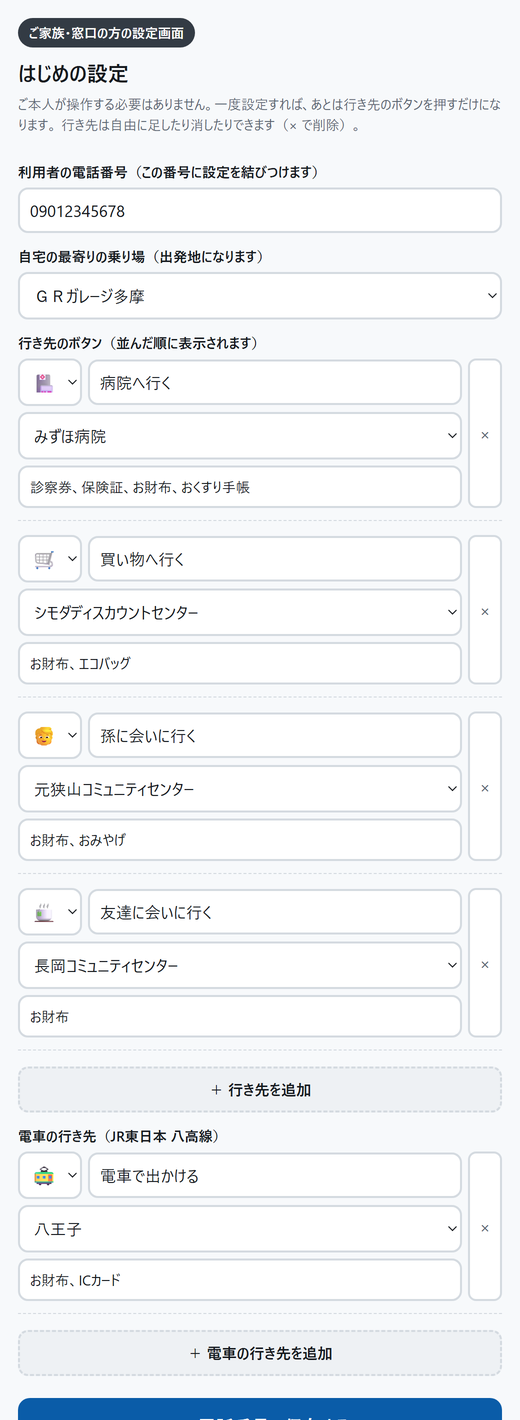
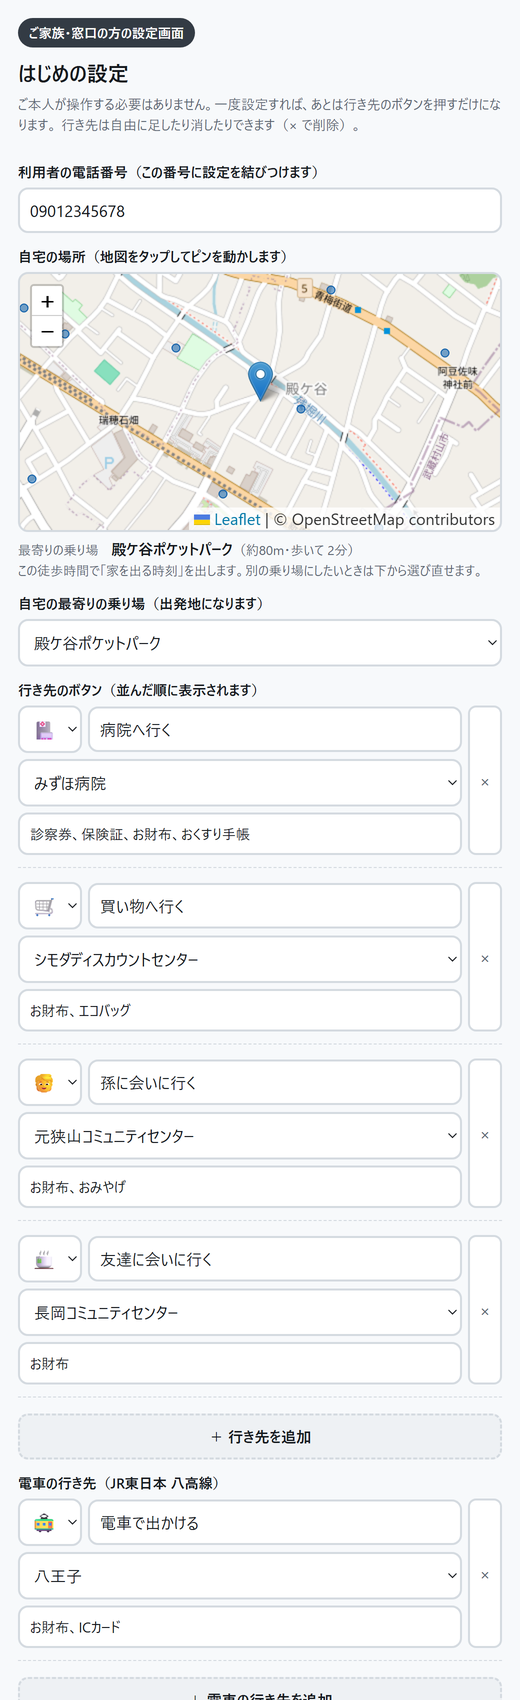
更新

diff --git a/index.html b/index.html
@@ -4,6 +4,8 @@
 <meta charset="utf-8">
 <meta name="viewport" content="width=device-width, initial-scale=1">
 <title>いつもの外出 — デマンド交通よやく</title>
+<link rel="stylesheet" href="https://unpkg.com/leaflet@1.9.4/dist/leaflet.css">
+<script src="https://unpkg.com/leaflet@1.9.4/dist/leaflet.js"></script>
 <script src="feed-data.js?v=4ceff3d9"></script>
 <style>
   :root{
@@ -166,6 +168,10 @@
   .msg{margin-top:14px;padding:12px 14px;border-radius:10px;font-size:17px;font-weight:700;
     background:#fdeaea;color:#6b1414;border:2px solid #d9a5a5}
   .msg.ok{background:#e7f4ec;color:#14532d;border-color:#8fc3a5}
+  #home-map{height:260px;border:2px solid var(--line);border-radius:10px;overflow:hidden}
+  .maphint{font-size:13px;color:var(--muted);margin-top:6px;line-height:1.5}
+  .maphint b{color:var(--ink);font-size:15px}
+  .leaflet-container{font:inherit}
   .setup input[type=tel],.setup input[type=text]{width:100%;padding:10px;font-size:16px;
     font-family:inherit;border:2px solid var(--line);border-radius:10px;background:#fff;color:var(--ink)}
   /* 行き先は自由に足し引きできる。事業者や家庭ごとに要るものは違う。 */
@@ -212,6 +218,24 @@
   .demo .btns button{flex:1 1 auto;padding:9px 12px;font-size:13px;font-family:inherit;cursor:pointer;
     background:#eef1f4;border:1px solid var(--line);border-radius:8px;color:var(--ink)}
   @media(max-width:900px){.phone{flex:1 1 100%}}
+  /* 実機の幅では「友達に会いに行く」が折り返していた。文字は大きいままで収める。 */
+  @media(max-width:430px){
+    .page{padding:12px 10px 40px}
+    .screen{padding:14px}
+    .bigbtn{font-size:25px;padding:16px 15px;gap:12px;margin-bottom:10px}
+    .bigbtn .ico{font-size:32px}
+    .bigbtn .dest{font-size:15px;margin-top:2px}
+    .status .big{font-size:22px}
+    .status .sub{font-size:16px}
+    .qdest{font-size:31px}
+    .journey .t{font-size:21px}
+    .journey .place b{font-size:21px}
+    .journey .leg{font-size:16px}
+    .count .n{font-size:64px}
+    .count .leave{font-size:21px}
+    .ride .dest{font-size:33px}
+    .items label{font-size:21px}
+  }
 </style>
 </head>
 <body>
@@ -246,6 +270,9 @@
           行き先は自由に足したり消したりできます（× で削除）。</p>
         <label for="in-setup-phone">利用者の電話番号（この番号に設定を結びつけます）</label>
         <input type="tel" id="in-setup-phone" inputmode="numeric" placeholder="09012345678">
+        <label>自宅の場所（地図をタップしてピンを動かします）</label>
+        <div id="home-map"></div>
+        <div class="maphint" id="home-map-hint">地図を読み込んでいます…</div>
         <label for="in-home">自宅の最寄りの乗り場（出発地になります）</label>
         <select id="in-home"></select>
         <label>行き先のボタン（並んだ順に表示されます）</label>
@@ -520,7 +547,7 @@
     if (!w) { return { ok: false, why: "closed" }; }
     var pickup = Math.max(minsOf(n) + RULE.priorNoticeMin, w.start);
     if (pickup > w.end) { return { ok: false, why: "late", window: w }; }
-    return { ok: true, window: w, pickup: pickup, leave: pickup - WALK_MIN };
+    return { ok: true, window: w, pickup: pickup, leave: pickup - homeWalkMin() };
   }
   function rideMinutes(from, to) {
     var km = distanceM(from.lat, from.lon, to) / 1000 * DETOUR;
@@ -729,7 +756,7 @@
       var target = best.dep - PLATFORM_MARGIN_MIN - walk - access.ride - BOARD_GRACE_MIN;
       var pickup = Math.max(p.pickup, target);
       access.pickup = pickup;
-      access.leave = pickup - WALK_MIN;
+      access.leave = pickup - homeWalkMin();
       access.arrive = pickup + BOARD_GRACE_MIN + access.ride;
     }
 
@@ -847,6 +874,10 @@
   function railJourney(r) {
     var rows = [];
     if (r.access.mode === "demand") {
+      if (cfg && cfg.home && r.access.pickup - r.access.leave > 0) {
+        rows.push({ t: r.access.leave, place: "自宅", note: "家を出る" });
+        rows.push({ leg: "🚶 歩いて " + (r.access.pickup - r.access.leave) + "分" });
+      }
       rows.push({ t: r.access.pickup, place: r.from.name, note: "お迎え" });
       rows.push({ leg: "🚐 デマンド交通で " + (r.access.arrive - r.access.pickup)
         + "分　🚶 歩いて " + r.walk + "分" });
@@ -889,12 +920,22 @@
     return rows;
   }
 
+  // 自宅を登録していれば、家を出るところから見せる。
+  // 徒歩時間が人によって違うので、ここを省くと時刻の根拠が見えない。
+  function homeLeg(t) {
+    if (!cfg || !cfg.home || t.dir !== "go") { return []; }
+    var walk = t.pickup - t.leave;
+    if (walk <= 0) { return []; }
+    return [{ t: t.leave, place: "自宅", note: "家を出る" },
+            { leg: "🚶 歩いて " + walk + "分" }];
+  }
+
   function demandJourney(t) {
-    return [
+    return homeLeg(t).concat([
       { t: t.pickup, place: t.origin.name, note: "お迎え" },
       { leg: "🚐 デマンド交通で " + (t.arrive - t.pickup) + "分" },
       { t: t.arrive, place: t.dest.name, note: "到着", end: true }
-    ];
+    ]);
   }
 
   // ── 設定（初回登録）─────────────────────────────────
@@ -933,8 +974,12 @@
   }
   // デモの初期状態。実運用なら空から家族が作る。
   function defaultConfig() {
+    // デモの自宅は、乗り場から 200m ほど離れた地点に置く。
+    // 乗り場と同じ座標にすると徒歩時間が出ず、この設定の意味が見えないため。
+    var base = stopById(stopIdByName("ＧＲガレージ多摩")) || F.stops[0];
     return {
       phone: DEMO_PHONE,
+      home: { lat: +(base.lat + 0.0016).toFixed(6), lon: +(base.lon + 0.0008).toFixed(6) },
       homeStopId: stopIdByName("ＧＲガレージ多摩") || F.stops[0].id,
       places: DEFAULT_PLACES.map(function (d) {
         return { icon: d.icon, label: d.label, items: d.items,
@@ -1506,6 +1551,77 @@
     return out;
   }
 
+  // ── 自宅の位置 ──────────────────────────────────────
+  // 「家を出る時刻」は乗り場までの徒歩時間で決まる。全員一律5分では実態に合わないので、
+  // 自宅の座標を登録して実距離から出す。地図が使えないときは既定値に戻すだけ。
+  var homeMap = null, homeMarker = null;
+
+  function homeWalkMin() {
+    if (!cfg || !cfg.home) { return WALK_MIN; }
+    var st = stopById(cfg.homeStopId);
+    if (!st) { return WALK_MIN; }
+    return Math.max(2, Math.ceil(distanceM(cfg.home.lat, cfg.home.lon, st) / WALK_M_PER_MIN));
+  }
+
+  function stopsCenter() {
+    var la = 0, lo = 0;
+    F.stops.forEach(function (st) { la += st.lat; lo += st.lon; });
+    return { lat: la / F.stops.length, lon: lo / F.stops.length };
+  }
+
+  // ピンを動かすたびに、最寄りの乗り場と徒歩時間を出し直す
+  function updateHomeHint(lat, lon) {
+    var nr = nearestStop(lat, lon);
+    var hint = $("home-map-hint");
+    if (!nr) { hint.textContent = "近くに乗り場が見つかりません。"; return; }
+    var walk = Math.max(2, Math.ceil(nr.dist / WALK_M_PER_MIN));
+    $("in-home").value = nr.stop.id;
+    hint.innerHTML = "最寄りの乗り場　<b>" + nr.stop.name + "</b>"
+      + "（" + fmtDist(nr.dist) + "・歩いて " + walk + "分）<br>"
+      + "この徒歩時間で「家を出る時刻」を出します。別の乗り場にしたいときは下から選び直せます。";
+  }
+
+  function initHomeMap(fromCfg) {
+    var hint = $("home-map-hint");
+    if (typeof L === "undefined") {
+      $("home-map").hidden = true;
+      hint.textContent = "地図を読み込めませんでした。下の一覧から乗り場を選んでください。";
+      return;
+    }
+    var start = (fromCfg && fromCfg.home)
+      || (fromCfg && stopById(fromCfg.homeStopId))
+      || stopsCenter();
+    if (!homeMap) {
+      homeMap = L.map("home-map", { attributionControl: true })
+        .setView([start.lat, start.lon], 16);
+      L.tileLayer("https://tile.openstreetmap.org/{z}/{x}/{y}.png", {
+        maxZoom: 19,
+        attribution: "&copy; OpenStreetMap contributors"
+      }).addTo(homeMap);
+      // 乗り場も薄く置く。どこに乗り場があるか見えないと家を置きようがない。
+      F.stops.forEach(function (st) {
+        L.circleMarker([st.lat, st.lon], {
+          radius: 4, color: "#0a5ca8", weight: 1, fillOpacity: 0.55
+        }).bindTooltip(st.name).addTo(homeMap);
+      });
+      homeMarker = L.marker([start.lat, start.lon], { draggable: true }).addTo(homeMap);
+      homeMarker.on("dragend", function () {
+        var p = homeMarker.getLatLng();
+        updateHomeHint(p.lat, p.lng);
+      });
+      homeMap.on("click", function (e) {
+        homeMarker.setLatLng(e.latlng);
+        updateHomeHint(e.latlng.lat, e.latlng.lng);
+      });
+    } else {
+      homeMap.setView([start.lat, start.lon], 16);
+      homeMarker.setLatLng([start.lat, start.lon]);
+    }
+    updateHomeHint(start.lat, start.lon);
+    // 非表示のまま作ると大きさを取り違えるので、表示後に測り直す
+    setTimeout(function () { homeMap.invalidateSize(); }, 60);
+  }
+
   // 設定画面を今の内容で開く。呼ぶのは家族・窓口の人。
   function openSetup() {
     buildSetup(cfg);
@@ -1514,6 +1630,7 @@
     if (cfg) { $("in-home").value = cfg.homeStopId; }
     $("btn-setup-cancel").hidden = !cfg;
     show("setup");
+    initHomeMap(cfg);
   }
   $("btn-add-place").addEventListener("click", function () {
     $("setup-places").appendChild(placeRow(null));
@@ -1532,8 +1649,10 @@
       message("setup-msg", "電話番号を10桁以上で入力してください。");
       return;
     }
+    var pin = homeMarker ? homeMarker.getLatLng() : null;
     cfg = {
       phone: phone,
+      home: pin ? { lat: +pin.lat.toFixed(6), lon: +pin.lng.toFixed(6) } : (cfg && cfg.home) || null,
       homeStopId: $("in-home").value,
       places: collectRows($("setup-places"), stopById, " へ行く"),
       rails: RAIL ? collectRows($("setup-rails"), railStopById, " へ行く") : []
@@ -1600,7 +1719,7 @@
         "<code>booking_rules.prior_notice_duration_min</code> = <b>" + RULE.priorNoticeMin + "分前</b>"],
       ["お迎え／家を出る時刻",
         p.ok ? "いま＋" + RULE.priorNoticeMin + "分 → <b>" + minToHHMM(p.pickup) + "</b> 乗車、"
-             + "徒歩" + WALK_MIN + "分を引いて <b>" + minToHHMM(p.leave) + "</b> 出発"
+             + "徒歩" + homeWalkMin() + "分を引いて <b>" + minToHHMM(p.leave) + "</b> 出発"
              : "算出不可（デマンド交通は本日利用できません）"],
       ["八高線は今日走るか",
         RAIL ? "<code>calendar.txt</code>（JR側）<br>" + jpDate(n) + " → "

diff --git a/manual.html b/manual.html
@@ -117,7 +117,10 @@
 <ol class="steps">
   <li>アプリを開き、画面のいちばん下の「<strong>ご家族・窓口の方へ（設定）</strong>」を押します。</li>
   <li><strong>利用者の電話番号</strong>を入れます。この番号に設定が結びつきます。</li>
-  <li><strong>自宅の最寄りの乗り場</strong>を選びます。行きの出発地になります。</li>
+  <li><strong>自宅の場所</strong>を地図で指定します。地図をタップするとピンが動きます。
+      青い点が乗り場です。ピンを動かすと、最寄りの乗り場と歩いて何分かが下に出ます。</li>
+  <li><strong>自宅の最寄りの乗り場</strong>は、ピンに合わせて自動で選ばれます。
+      川を渡るなど実際には遠回りになる場合は、下の一覧から選び直せます。</li>
   <li><strong>行き先のボタン</strong>を作ります。1件につき、絵文字・ボタンの文字・行き先の乗り場・持ち物を決めます。</li>
   <li>「＋ 行き先を追加」で増やし、「×」で削除できます。</li>
   <li><strong>電車の行き先</strong>も同じように設定できます。複数登録できます。</li>
@@ -128,6 +131,12 @@
   <img src="manual/06-setup.png" alt="設定画面" style="width:340px">
   <figcaption>設定画面。行き先は家庭ごとに違うので、自由に足し引きできます。</figcaption>
 </figure>
+
+<div class="note">
+  <b>自宅を登録すると「家を出る時刻」が正確になります</b>
+  自宅から乗り場までの距離から徒歩時間を出すので、乗り場のすぐ隣なら2分前、
+  440m離れていれば8分前になります。登録しない場合は一律で5分前として扱います。
+</div>
 
 <h3>持ち物は行き先ごとに決めます</h3>
 
@@ -287,6 +296,9 @@
       <td>運行情報。遅延・運休・運転見合わせ</td></tr>
 </table>
 
+<p>自宅を登録する地図の背景には OpenStreetMap のタイルを使っています
+（&copy; OpenStreetMap contributors／ODbL）。地図は設定画面だけに出ます。</p>
+
 <p>いずれも公共交通オープンデータセンターが公開しているもので、ライセンスは CC BY 4.0 です。</p>
 
 <h3>できないこと</h3>
@@ -306,6 +318,7 @@
   いつもの外出 — デマンド交通よやく（プロトタイプ）／ 公共交通オープンデータチャレンジ2026<br>
   出典：瑞穂町デマンド交通「チョイソコみずほまち」、瑞穂町コミュニティバス、
   JR東日本 八高線・鉄道関連リアルタイム情報 ／ 公共交通オープンデータセンター（CC BY 4.0）<br>
+  地図タイル：&copy; OpenStreetMap contributors（ODbL）<br>
   <a href="./">アプリを開く</a>
 </footer>
 
